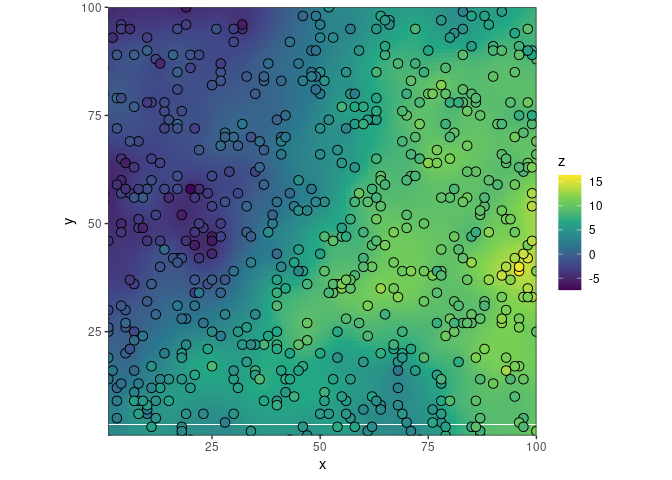
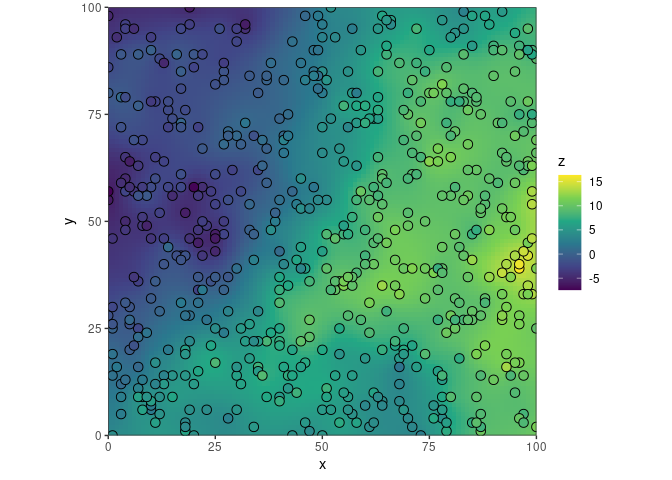
Small adjustments to README

diff --git a/README.md b/README.md
@@ -7,13 +7,15 @@
 <!-- badges: end -->
 
 **ggspatreg** extends **ggplot2**, allowing for simple visualization of
-spatial regression models.
+spatial regression models. Included are functions `geom_krige()`,
+`geom_krige_contour()`, and `geom_krige_contour_lines()` for plotting
+interpolation of spatial data.
 
 ## Installation
 
-**ggspatreg** is being actively developed, and is likely to undergo
-large changes in the future. It is not available on CRAN, but you can
-install the development version:
+**ggspatreg** is being actively developed and is likely to undergo large
+changes in the future. It is not available on CRAN, but you can install
+the development version:
 
 ``` r
 if (!requireNamespace("remotes")) install.packages("remotes")
@@ -98,7 +100,7 @@ dependence and the specified linear relationship.
 ggplot(df, aes(x, y)) +
   geom_krige(aes(z = z), formula = z ~ x + y) +
   geom_point(aes(fill = z), shape = 21, size = 3) +
-  coord_fixed(xlim = c(1, 100), ylim = c(1, 100), expand = FALSE) +
+  coord_fixed(xlim = c(0, 100), ylim = c(0, 100), expand = FALSE) +
   scale_fill_viridis_c()
 ```
 
